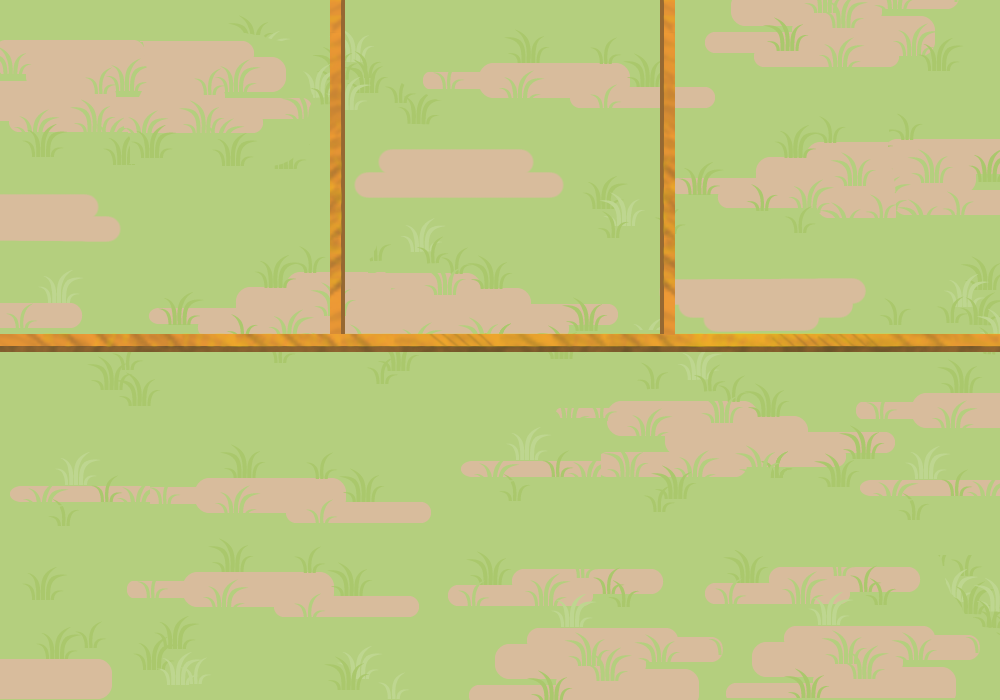
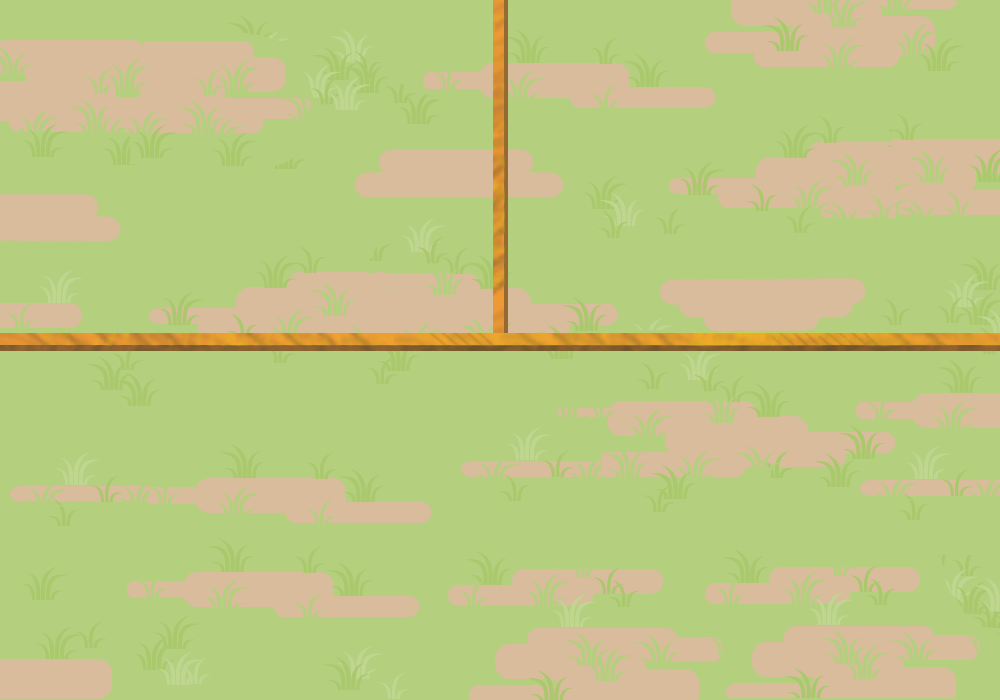
Convert pens from 3 to 2
[#102021676]

diff --git a/models/sand-rat-demo/public/model/model.js b/models/sand-rat-demo/public/model/model.js
@@ -117,24 +117,7 @@
           ref = this.env.agentsWithin({
             x: 0,
             y: 0,
-            width: 330,
-            height: 350
-          });
-          results = [];
-          for (j = 0, len = ref.length; j < len; j++) {
-            a = ref[j];
-            if (a.species === sandratSpecies) {
-              results.push(a);
-            }
-          }
-          return results;
-        }).call(this)).length;
-        this.count_n = ((function() {
-          var j, len, ref, results;
-          ref = this.env.agentsWithin({
-            x: 330,
-            y: 0,
-            width: 330,
+            width: 500,
             height: 350
           });
           results = [];
@@ -149,9 +132,9 @@
         return this.count_ne = ((function() {
           var j, len, ref, results;
           ref = this.env.agentsWithin({
-            x: 660,
+            x: 500,
             y: 0,
-            width: 330,
+            width: 500,
             height: 350
           });
           results = [];
@@ -186,21 +169,14 @@
         loc = {
           x: 0,
           y: 0,
-          width: 330,
-          height: 350
-        };
-      } else if (graphLoc === "n") {
-        loc = {
-          x: 330,
-          y: 0,
-          width: 330,
+          width: 485,
           height: 350
         };
       } else if (graphLoc === "ne") {
         loc = {
-          x: 660,
+          x: 515,
           y: 0,
-          width: 330,
+          width: 485,
           height: 350
         };
       }
@@ -256,11 +232,10 @@
       for (i = l = 0, ref = startingRats; 0 <= ref ? l < ref : l > ref; i = 0 <= ref ? ++l : --l) {
         this.addRat();
       }
-      $('#chow, #chow-s, #chow-nw, #chow-n, #chow-ne').attr('checked', false);
+      $('#chow, #chow-s, #chow-nw, #chow-ne').attr('checked', false);
       this.count_all = 0;
       this.count_s = 0;
       this.count_nw = 0;
-      this.count_n = 0;
       this.count_ne = 0;
       return drawCharts();
     },
@@ -300,41 +275,28 @@
     },
     setNWChow: function(chow) {
       var col, j, k, row;
-      for (col = j = 0; j <= 31; col = ++j) {
+      for (col = j = 0; j <= 50; col = ++j) {
         for (row = k = 0; k <= 33; row = ++k) {
           this.env.set(col, row, "chow", chow);
         }
       }
       if (chow) {
-        return this.addChow(25, 0, 0, 330, 350);
+        return this.addChow(25, 0, 0, 500, 350);
       } else {
-        return this.removeChow(0, 0, 330, 350);
-      }
-    },
-    setNChow: function(chow) {
-      var col, j, k, row;
-      for (col = j = 33; j <= 64; col = ++j) {
-        for (row = k = 0; k <= 33; row = ++k) {
-          this.env.set(col, row, "chow", chow);
-        }
-      }
-      if (chow) {
-        return this.addChow(25, 340, 0, 330, 350);
-      } else {
-        return this.removeChow(340, 0, 330, 350);
+        return this.removeChow(0, 0, 500, 350);
       }
     },
     setNEChow: function(chow) {
       var col, j, k, row;
-      for (col = j = 66; j <= 100; col = ++j) {
+      for (col = j = 50; j <= 100; col = ++j) {
         for (row = k = 0; k <= 33; row = ++k) {
           this.env.set(col, row, "chow", chow);
         }
       }
       if (chow) {
-        return this.addChow(25, 670, 0, 330, 350);
+        return this.addChow(25, 500, 0, 500, 350);
       } else {
-        return this.removeChow(670, 0, 330, 350);
+        return this.removeChow(500, 0, 500, 350);
       }
     },
     setSChow: function(chow) {
@@ -375,15 +337,11 @@
     });
     $('#chow').change(function() {
       model.setNWChow($(this).is(':checked'));
-      model.setNChow($(this).is(':checked'));
       model.setNEChow($(this).is(':checked'));
       return model.setSChow($(this).is(':checked'));
     });
     $('#chow-nw').change(function() {
       return model.setNWChow($(this).is(':checked'));
-    });
-    $('#chow-n').change(function() {
-      return model.setNChow($(this).is(':checked'));
     });
     $('#chow-ne').change(function() {
       return model.setNEChow($(this).is(':checked'));

diff --git a/models/sand-rat-demo/public/model/model-narrow.js b/models/sand-rat-demo/public/model/model-narrow.js
@@ -117,24 +117,7 @@
           ref = this.env.agentsWithin({
             x: 0,
             y: 0,
-            width: 330,
-            height: 350
-          });
-          results = [];
-          for (j = 0, len = ref.length; j < len; j++) {
-            a = ref[j];
-            if (a.species === sandratSpecies) {
-              results.push(a);
-            }
-          }
-          return results;
-        }).call(this)).length;
-        this.count_n = ((function() {
-          var j, len, ref, results;
-          ref = this.env.agentsWithin({
-            x: 330,
-            y: 0,
-            width: 330,
+            width: 500,
             height: 350
           });
           results = [];
@@ -149,9 +132,9 @@
         return this.count_ne = ((function() {
           var j, len, ref, results;
           ref = this.env.agentsWithin({
-            x: 660,
+            x: 500,
             y: 0,
-            width: 330,
+            width: 500,
             height: 350
           });
           results = [];
@@ -186,21 +169,14 @@
         loc = {
           x: 0,
           y: 0,
-          width: 330,
-          height: 350
-        };
-      } else if (graphLoc === "n") {
-        loc = {
-          x: 330,
-          y: 0,
-          width: 330,
+          width: 500,
           height: 350
         };
       } else if (graphLoc === "ne") {
         loc = {
-          x: 660,
+          x: 500,
           y: 0,
-          width: 330,
+          width: 500,
           height: 350
         };
       }
@@ -260,7 +236,6 @@
       this.count_all = 0;
       this.count_s = 0;
       this.count_nw = 0;
-      this.count_n = 0;
       this.count_ne = 0;
       return drawCharts();
     },
@@ -300,41 +275,28 @@
     },
     setNWChow: function(chow) {
       var col, j, k, row;
-      for (col = j = 0; j <= 20; col = ++j) {
+      for (col = j = 0; j <= 30; col = ++j) {
         for (row = k = 0; k <= 33; row = ++k) {
           this.env.set(col, row, "chow", chow);
         }
       }
       if (chow) {
-        return this.addChow(25, 0, 0, 330, 350);
+        return this.addChow(25, 0, 0, 500, 350);
       } else {
-        return this.removeChow(0, 0, 330, 350);
-      }
-    },
-    setNChow: function(chow) {
-      var col, j, k, row;
-      for (col = j = 20; j <= 40; col = ++j) {
-        for (row = k = 0; k <= 33; row = ++k) {
-          this.env.set(col, row, "chow", chow);
-        }
-      }
-      if (chow) {
-        return this.addChow(25, 340, 0, 330, 350);
-      } else {
-        return this.removeChow(340, 0, 330, 350);
+        return this.removeChow(0, 0, 500, 350);
       }
     },
     setNEChow: function(chow) {
       var col, j, k, row;
-      for (col = j = 40; j <= 60; col = ++j) {
+      for (col = j = 30; j <= 60; col = ++j) {
         for (row = k = 0; k <= 33; row = ++k) {
           this.env.set(col, row, "chow", chow);
         }
       }
       if (chow) {
-        return this.addChow(25, 670, 0, 330, 350);
+        return this.addChow(25, 500, 0, 500, 350);
       } else {
-        return this.removeChow(670, 0, 330, 350);
+        return this.removeChow(500, 0, 500, 350);
       }
     },
     setSChow: function(chow) {
@@ -375,15 +337,11 @@
     });
     $('#chow').change(function() {
       model.setNWChow($(this).is(':checked'));
-      model.setNChow($(this).is(':checked'));
       model.setNEChow($(this).is(':checked'));
       return model.setSChow($(this).is(':checked'));
     });
     $('#chow-nw').change(function() {
       return model.setNWChow($(this).is(':checked'));
-    });
-    $('#chow-n').change(function() {
-      return model.setNChow($(this).is(':checked'));
     });
     $('#chow-ne').change(function() {
       return model.setNEChow($(this).is(':checked'));

diff --git a/models/sand-rat-demo/app/lifespan.html b/models/sand-rat-demo/app/lifespan.html
@@ -40,7 +40,7 @@
       <table>
         <tr>
           <td><input type="checkbox" id="chow-nw" value="prone"></td>
-          <td><input type="checkbox" id="chow-n" value="prone"></td>
+          <td></td>
           <td><input type="checkbox" id="chow-ne" value="prone"></td>
         </tr>
         <tr>
@@ -61,7 +61,6 @@
       <select id="graph-location-selection">
         <option value="s">Bottom field</option>
         <option value="nw">Left pen</option>
-        <option value="n">Middle pen</option>
         <option value="ne">Right pen</option>
       </select>
     </div>
@@ -80,7 +79,6 @@
       <select id="graph-location-selection-2">
         <option value="s">Bottom field</option>
         <option value="nw" selected="selected">Left pen</option>
-        <option value="n">Middle pen</option>
         <option value="ne">Right pen</option>
       </select>
     </div>

diff --git a/models/sand-rat-demo/app/pens.html b/models/sand-rat-demo/app/pens.html
@@ -40,7 +40,7 @@
       <table>
         <tr>
           <td><input type="checkbox" id="chow-nw" value="prone"></td>
-          <td><input type="checkbox" id="chow-n" value="prone"></td>
+          <td></td>
           <td><input type="checkbox" id="chow-ne" value="prone"></td>
         </tr>
         <tr>
@@ -61,7 +61,6 @@
       <select id="graph-location-selection">
         <option value="s">Bottom field</option>
         <option value="nw">Left pen</option>
-        <option value="n">Middle pen</option>
         <option value="ne">Right pen</option>
       </select>
     </div>
@@ -80,7 +79,6 @@
       <select id="graph-location-selection-2">
         <option value="s">Bottom field</option>
         <option value="nw" selected="selected">Left pen</option>
-        <option value="n">Middle pen</option>
         <option value="ne">Right pen</option>
       </select>
     </div>

diff --git a/models/sand-rat-demo/public/lifespan.html b/models/sand-rat-demo/public/lifespan.html
@@ -40,7 +40,7 @@
       <table>
         <tr>
           <td><input type="checkbox" id="chow-nw" value="prone"></td>
-          <td><input type="checkbox" id="chow-n" value="prone"></td>
+          <td></td>
           <td><input type="checkbox" id="chow-ne" value="prone"></td>
         </tr>
         <tr>
@@ -61,7 +61,6 @@
       <select id="graph-location-selection">
         <option value="s">Bottom field</option>
         <option value="nw">Left pen</option>
-        <option value="n">Middle pen</option>
         <option value="ne">Right pen</option>
       </select>
     </div>
@@ -80,7 +79,6 @@
       <select id="graph-location-selection-2">
         <option value="s">Bottom field</option>
         <option value="nw" selected="selected">Left pen</option>
-        <option value="n">Middle pen</option>
         <option value="ne">Right pen</option>
       </select>
     </div>

diff --git a/models/sand-rat-demo/public/pens.html b/models/sand-rat-demo/public/pens.html
@@ -40,7 +40,7 @@
       <table>
         <tr>
           <td><input type="checkbox" id="chow-nw" value="prone"></td>
-          <td><input type="checkbox" id="chow-n" value="prone"></td>
+          <td></td>
           <td><input type="checkbox" id="chow-ne" value="prone"></td>
         </tr>
         <tr>
@@ -61,7 +61,6 @@
       <select id="graph-location-selection">
         <option value="s">Bottom field</option>
         <option value="nw">Left pen</option>
-        <option value="n">Middle pen</option>
         <option value="ne">Right pen</option>
       </select>
     </div>
@@ -80,7 +79,6 @@
       <select id="graph-location-selection-2">
         <option value="s">Bottom field</option>
         <option value="nw" selected="selected">Left pen</option>
-        <option value="n">Middle pen</option>
         <option value="ne">Right pen</option>
       </select>
     </div>

diff --git a/models/sand-rat-demo/public/model/environment-pens.js b/models/sand-rat-demo/public/model/environment-pens.js
@@ -12,7 +12,7 @@
     imgPath: "images/environments/field-pens.png",
     wrapEastWest: false,
     wrapNorthSouth: false,
-    barriers: [[0, 330, 1000, 30], [320, 0, 30, 340], [650, 0, 30, 340]]
+    barriers: [[0, 330, 1000, 30], [485, 0, 30, 340]]
   });
 
   env.addRule(new Rule({
